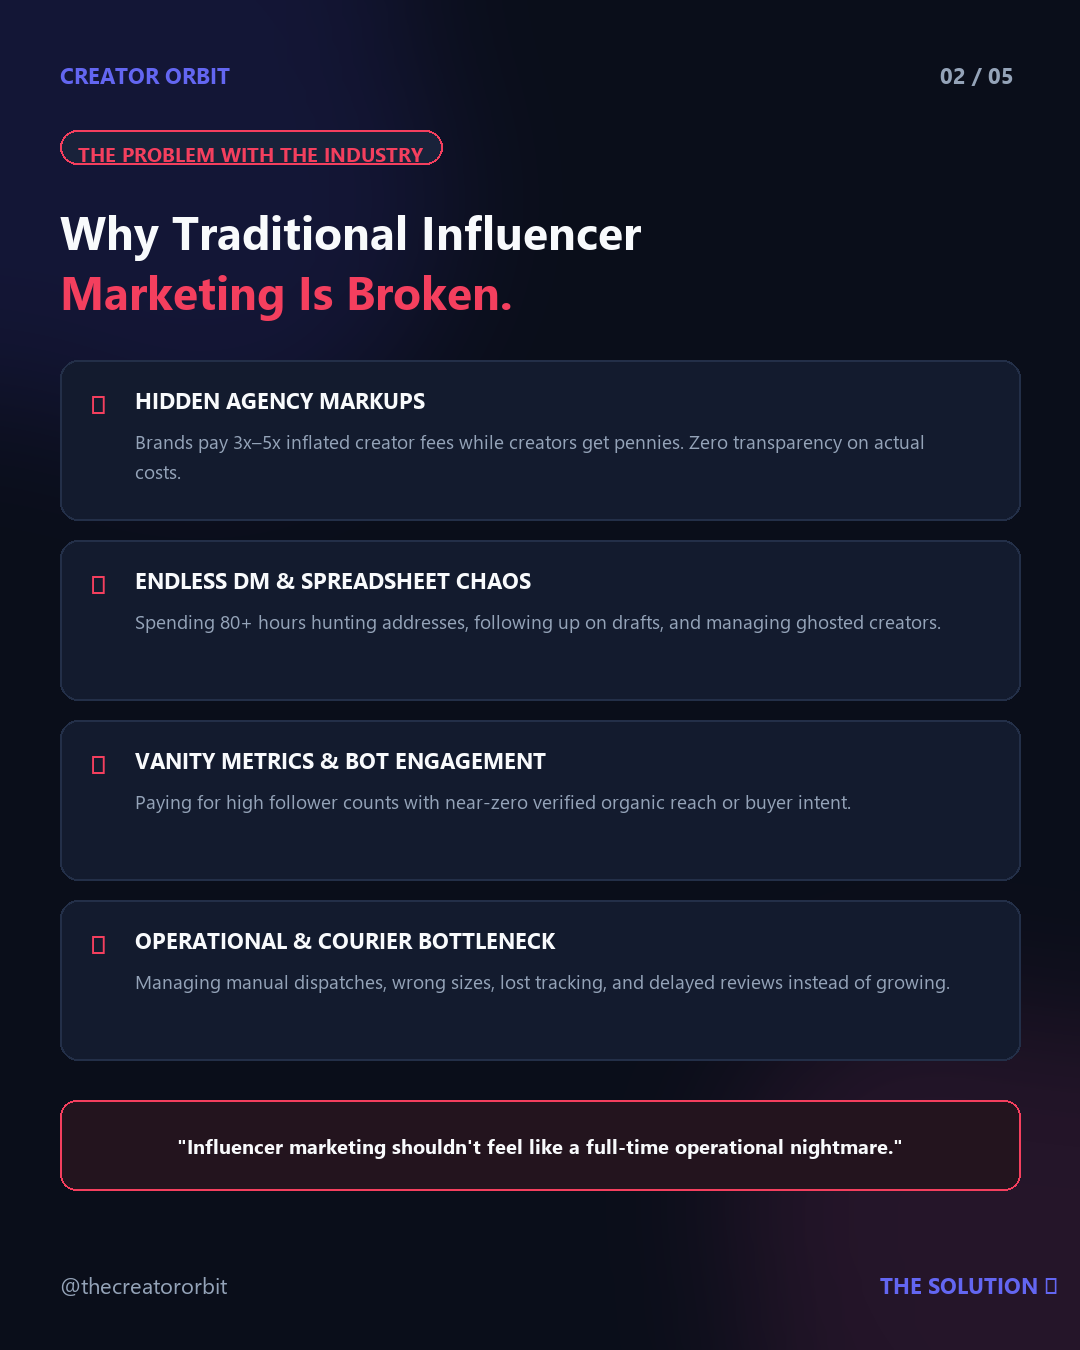
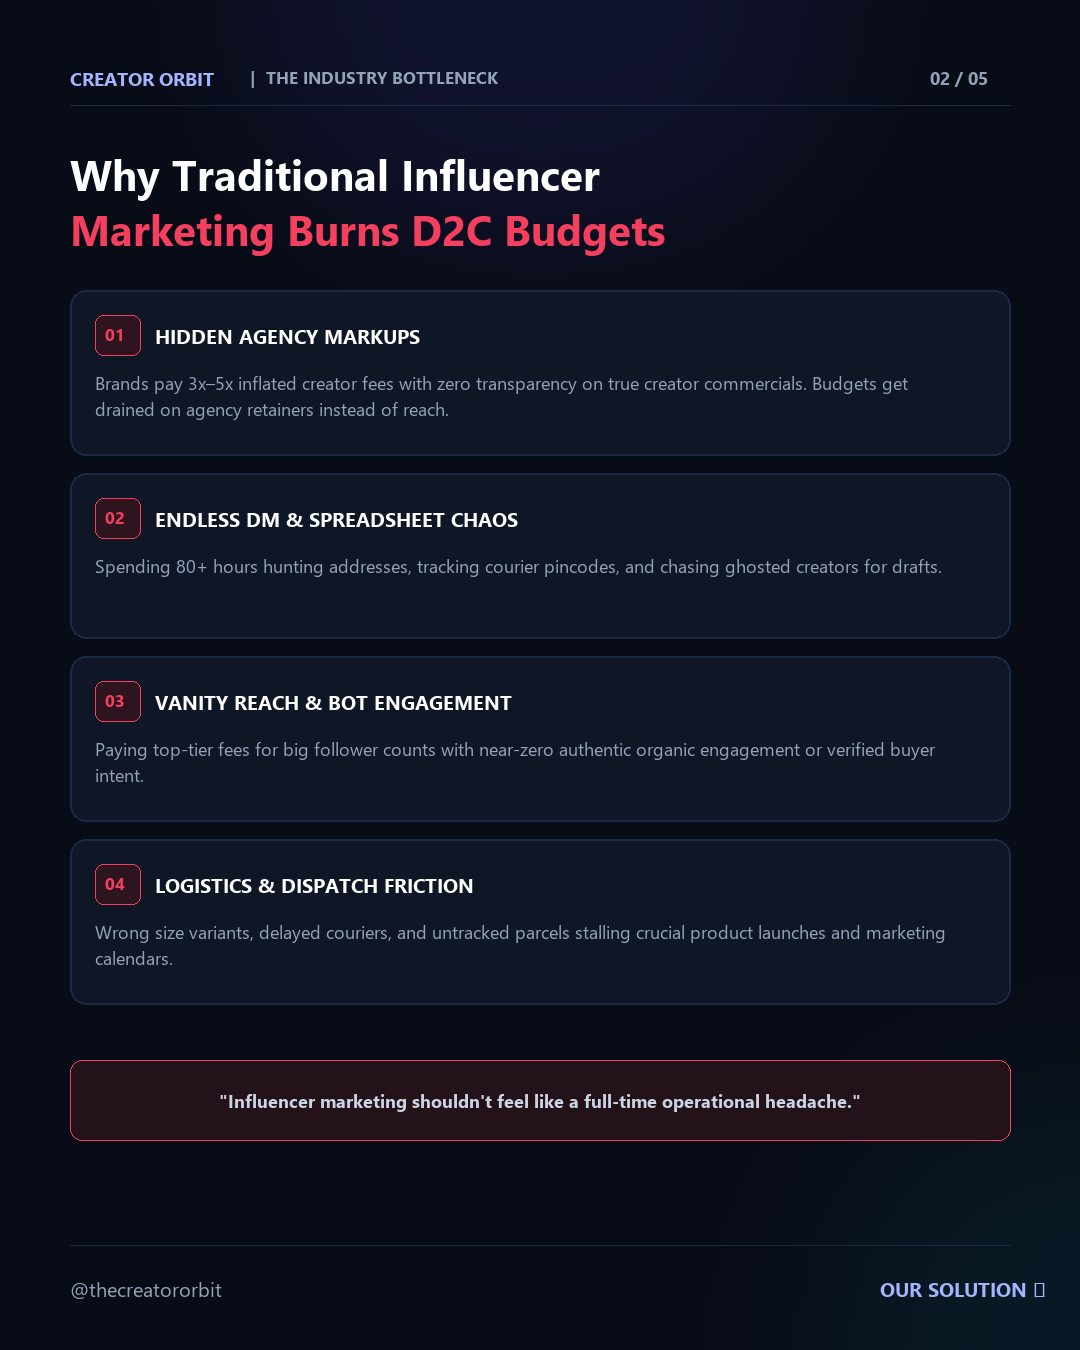
design: refine realistic agency launch carousel slides with clean typography grid and remove AI surreal artwork

diff --git a/branding/instagram_launch_preview.html b/branding/instagram_launch_preview.html
@@ -228,9 +228,9 @@
     <p class="subtitle">Complete 5-slide portrait carousel (1080×1350) + high-converting caption &amp; optimized hashtags for @thecreatororbit.</p>
   </header>
 
-  <!-- Carousel Slides (Infographics) -->
+  <!-- Carousel Slides (Refined Realistic Agency Layout) -->
   <section class="slides-section">
-    <h2 class="section-title">📊 Option A: Typography &amp; Infographic Carousel (1080 × 1350)</h2>
+    <h2 class="section-title">📸 Official Agency Launch Carousel (1080 × 1350 Portrait 4:5)</h2>
     <div class="slides-grid">
       
       <!-- Slide 1 -->
@@ -238,8 +238,8 @@
         <div class="slide-img-wrap">
           <img src="launch_slides/slide_1_cover.png" alt="Slide 1 Cover" />
         </div>
-        <div class="slide-label">Slide 1: The Hook</div>
-        <div class="slide-desc">Cover slide with glowing logo &amp; agency value prop.</div>
+        <div class="slide-label">Slide 1: Agency Launch</div>
+        <div class="slide-desc">Clean logo emblem, value prop, &amp; verified metrics.</div>
         <a href="launch_slides/slide_1_cover.png" download class="download-btn">⬇ Download PNG</a>
       </div>
 
@@ -248,8 +248,8 @@
         <div class="slide-img-wrap">
           <img src="launch_slides/slide_2_problem.png" alt="Slide 2 Problem" />
         </div>
-        <div class="slide-label">Slide 2: The Problem</div>
-        <div class="slide-desc">4 industry pain points with traditional agencies.</div>
+        <div class="slide-label">Slide 2: Industry Bottleneck</div>
+        <div class="slide-desc">4 real pain points with traditional agencies.</div>
         <a href="launch_slides/slide_2_problem.png" download class="download-btn">⬇ Download PNG</a>
       </div>
 
@@ -258,8 +258,8 @@
         <div class="slide-img-wrap">
           <img src="launch_slides/slide_3_solution.png" alt="Slide 3 Solution" />
         </div>
-        <div class="slide-label">Slide 3: The Solution</div>
-        <div class="slide-desc">ORBIT MATCH™ standard &amp; frictionless logistics.</div>
+        <div class="slide-label">Slide 3: The Engine</div>
+        <div class="slide-desc">ORBIT MATCH™ standard &amp; warehouse dispatch.</div>
         <a href="launch_slides/slide_3_solution.png" download class="download-btn">⬇ Download PNG</a>
       </div>
 
@@ -268,7 +268,7 @@
         <div class="slide-img-wrap">
           <img src="launch_slides/slide_4_programs.png" alt="Slide 4 Programs" />
         </div>
-        <div class="slide-label">Slide 4: What We Do</div>
+        <div class="slide-label">Slide 4: Campaign Programs</div>
         <div class="slide-desc">Barter Seeding, Performance UGC &amp; Whitelisting.</div>
         <a href="launch_slides/slide_4_programs.png" download class="download-btn">⬇ Download PNG</a>
       </div>
@@ -281,64 +281,6 @@
         <div class="slide-label">Slide 5: Founders &amp; CTA</div>
         <div class="slide-desc">Vedant &amp; Manya intro, live website &amp; DM trigger.</div>
         <a href="launch_slides/slide_5_cta.png" download class="download-btn">⬇ Download PNG</a>
-      </div>
-
-    </div>
-  </section>
-
-  <!-- Carousel Slides (3D Cinematic Artwork) -->
-  <section class="slides-section">
-    <h2 class="section-title">🌌 Option B: 3D Cinematic Visual Artwork Carousel (1080 × 1350)</h2>
-    <div class="slides-grid">
-      
-      <!-- 3D Slide 1 -->
-      <div class="slide-card">
-        <div class="slide-img-wrap">
-          <img src="launch_slides/ai_rendered/slide_1_cover_3d.jpg" alt="3D Cover Artwork" />
-        </div>
-        <div class="slide-label">Slide 1: Cosmic Play Orbit</div>
-        <div class="slide-desc">Electric Indigo cosmic glowing portal &amp; emblem.</div>
-        <a href="launch_slides/ai_rendered/slide_1_cover_3d.jpg" download class="download-btn">⬇ Download 3D</a>
-      </div>
-
-      <!-- 3D Slide 2 -->
-      <div class="slide-card">
-        <div class="slide-img-wrap">
-          <img src="launch_slides/ai_rendered/slide_2_problem_3d.jpg" alt="3D Problem Artwork" />
-        </div>
-        <div class="slide-label">Slide 2: Marketing Chaos</div>
-        <div class="slide-desc">3D fractured digital sphere of agency friction.</div>
-        <a href="launch_slides/ai_rendered/slide_2_problem_3d.jpg" download class="download-btn">⬇ Download 3D</a>
-      </div>
-
-      <!-- 3D Slide 3 -->
-      <div class="slide-card">
-        <div class="slide-img-wrap">
-          <img src="launch_slides/ai_rendered/slide_3_solution_3d.jpg" alt="3D Network Artwork" />
-        </div>
-        <div class="slide-label">Slide 3: 4,300+ Network</div>
-        <div class="slide-desc">Interconnected planetary creator intelligence grid.</div>
-        <a href="launch_slides/ai_rendered/slide_3_solution_3d.jpg" download class="download-btn">⬇ Download 3D</a>
-      </div>
-
-      <!-- 3D Slide 4 -->
-      <div class="slide-card">
-        <div class="slide-img-wrap">
-          <img src="launch_slides/ai_rendered/slide_4_programs_3d.jpg" alt="3D Programs Artwork" />
-        </div>
-        <div class="slide-label">Slide 4: Product Seeding</div>
-        <div class="slide-desc">Weightless metallic PR hampers with glowing reels.</div>
-        <a href="launch_slides/ai_rendered/slide_4_programs_3d.jpg" download class="download-btn">⬇ Download 3D</a>
-      </div>
-
-      <!-- 3D Slide 5 -->
-      <div class="slide-card">
-        <div class="slide-img-wrap">
-          <img src="launch_slides/ai_rendered/slide_5_cta_3d.jpg" alt="3D CTA Artwork" />
-        </div>
-        <div class="slide-label">Slide 5: Launch Gateway</div>
-        <div class="slide-desc">Cosmic launchpad stage with DM Roster portal.</div>
-        <a href="launch_slides/ai_rendered/slide_5_cta_3d.jpg" download class="download-btn">⬇ Download 3D</a>
       </div>
 
     </div>
